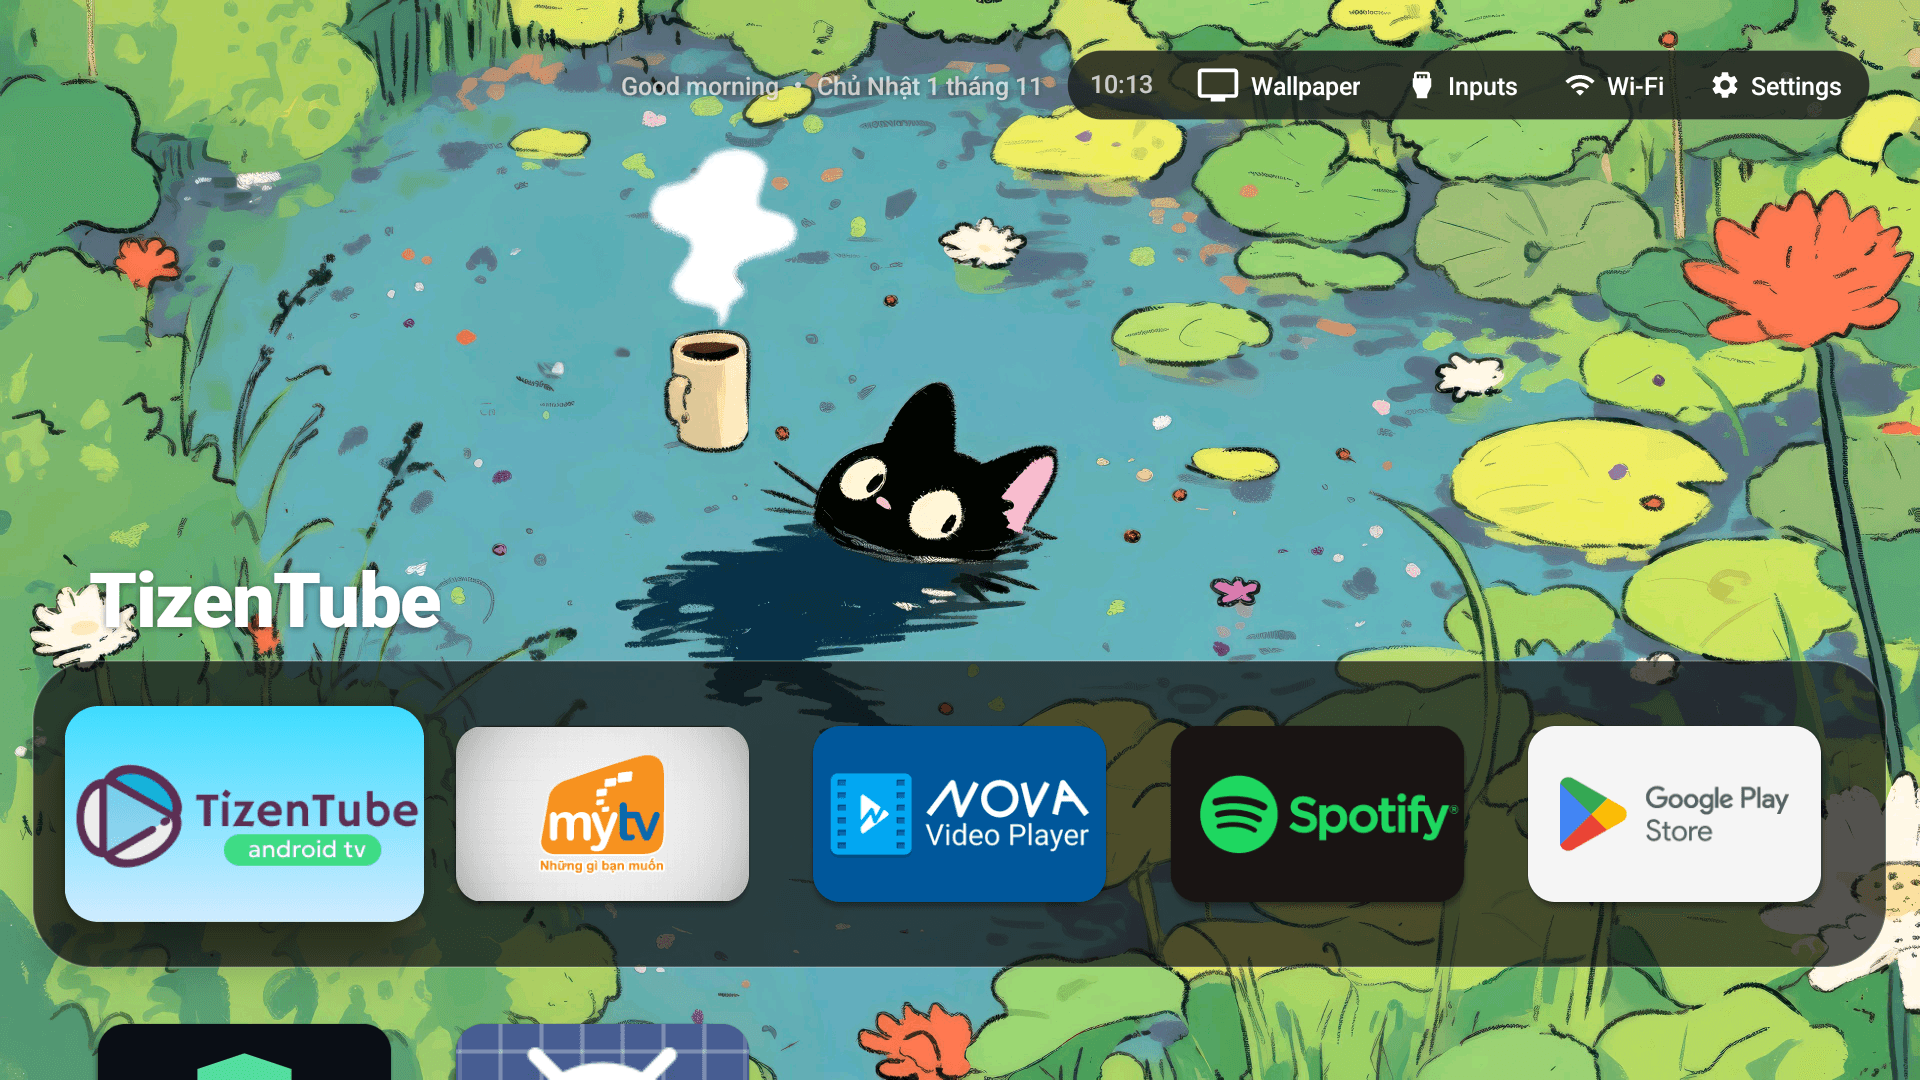
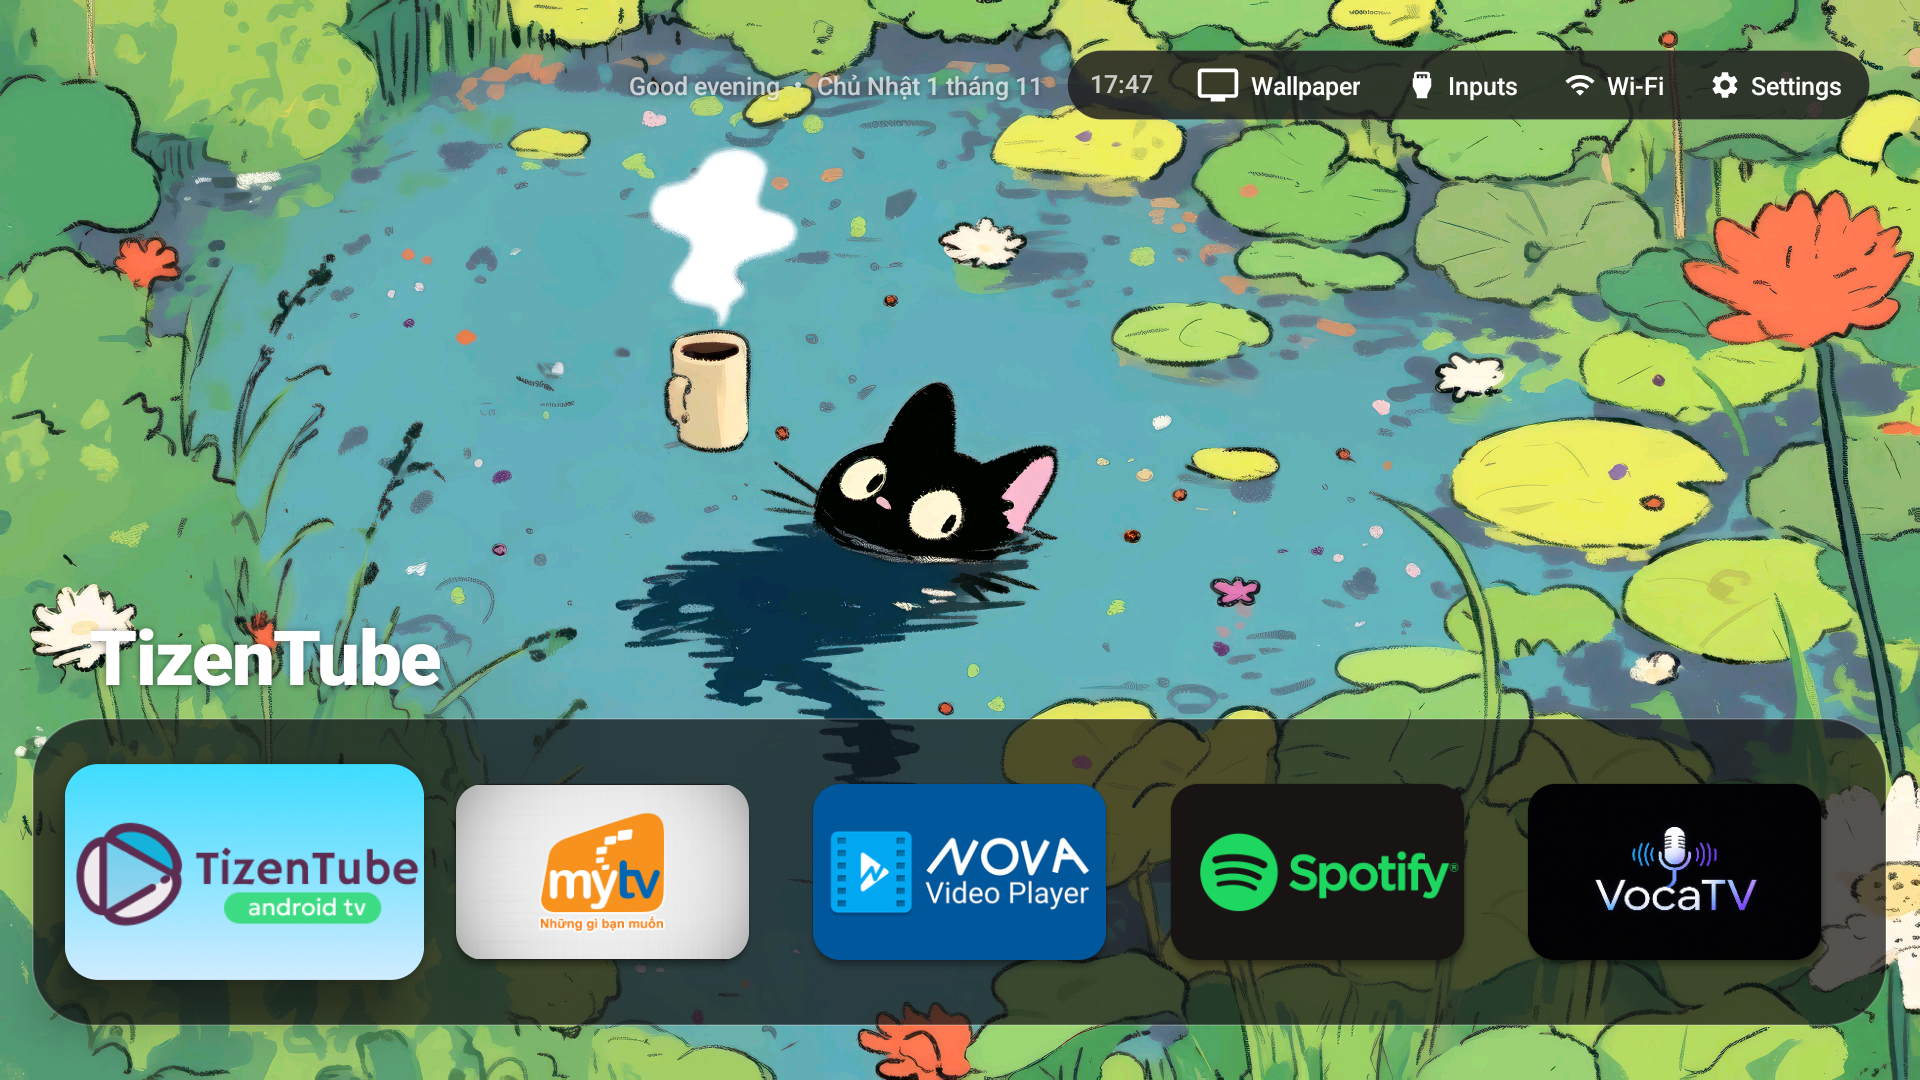
fix(recents): eliminate fake installed-apps fallback and add authentic empty state
- Remove fallback in loadApps() that populated installed launcher apps when recents was empty
- Add tvOS-style Empty State view with clear title, description, and permission guidance
- Disable Clear All button and hide bottom action buttons when recents list is empty
- Open ACTION_USAGE_ACCESS_SETTINGS directly when Settings is clicked without permission
- Re-capture fresh real-TV homepage screenshot at docs/Homescreen.png
- Update README.md and docs/REMOTE_MAPPING.md documentation

Changed region(s): [[0.0, 0.5194, 1.0, 1.0], [0.3125, 0.0611, 0.4062, 0.0917], [0.5625, 0.0611, 0.5938, 0.0917]]

diff --git a/app/src/main/java/com/appletv/launcher/RecentAppsActivity.java b/app/src/main/java/com/appletv/launcher/RecentAppsActivity.java
@@ -66,8 +66,8 @@ public class RecentAppsActivity extends Activity {
     private int selected = 0;
     private int glowColor = GLOW_DEFAULT;
 
-    private View glowBg;
-    private TextView txtSubtitle, btnClearAll, btnSettings, btnOpen, btnClose, btnInfo;
+    private View glowBg, emptyState, actionsRow;
+    private TextView txtSubtitle, btnClearAll, btnSettings, btnOpen, btnClose, btnInfo, emptyTitle, emptyDesc;
     private LinearLayout cardRow;
     private HorizontalScrollView scroller;
     private ActivityManager am;
@@ -101,6 +101,10 @@ public class RecentAppsActivity extends Activity {
         btnInfo = findViewById(R.id.btnInfo);
         cardRow = findViewById(R.id.cardRow);
         scroller = findViewById(R.id.scroller);
+        emptyState = findViewById(R.id.emptyState);
+        emptyTitle = findViewById(R.id.emptyTitle);
+        emptyDesc = findViewById(R.id.emptyDesc);
+        actionsRow = findViewById(R.id.actionsRow);
 
         styleStatic();
         wireButtons();
@@ -228,51 +232,27 @@ public class RecentAppsActivity extends Activity {
             UsageStatsManager usm = (UsageStatsManager) getSystemService(USAGE_STATS_SERVICE);
             long now = System.currentTimeMillis();
             Map<String, UsageStats> stats = usm.queryAndAggregateUsageStats(now - DateUtils.DAY_IN_MILLIS, now);
-            for (UsageStats s : stats.values()) {
-                String pkg = s.getPackageName();
-                if (skip.contains(pkg) || s.getLastTimeUsed() <= 0 || s.getTotalTimeInForeground() <= 0) continue;
-                if (s.getLastTimeUsed() <= prefs.getLong(pkg, 0)) continue;
-                if (launchIntent(pkg) == null) continue;
-                try {
-                    ApplicationInfo ai = pm.getApplicationInfo(pkg, 0);
-                    RecentApp a = new RecentApp();
-                    a.pkg = pkg;
-                    a.label = pm.getApplicationLabel(ai).toString();
-                    Drawable banner = pm.getApplicationBanner(ai);
-                    a.isBanner = banner != null;
-                    a.image = banner != null ? banner : pm.getApplicationIcon(ai);
-                    a.lastUsed = s.getLastTimeUsed();
-                    a.fgTime = s.getTotalTimeInForeground();
-                    a.color = dominantColor(pm.getApplicationIcon(ai));
-                    apps.add(a);
-                } catch (PackageManager.NameNotFoundException ignored) { }
-            }
-            apps.sort((x, y) -> Long.compare(y.lastUsed, x.lastUsed));
-        }
-        if (apps.isEmpty()) {
-            Intent main = new Intent(Intent.ACTION_MAIN, null);
-            main.addCategory(Intent.CATEGORY_LEANBACK_LAUNCHER);
-            List<ResolveInfo> list = pm.queryIntentActivities(main, 0);
-            if (list == null || list.isEmpty()) {
-                main.removeCategory(Intent.CATEGORY_LEANBACK_LAUNCHER);
-                main.addCategory(Intent.CATEGORY_LAUNCHER);
-                list = pm.queryIntentActivities(main, 0);
-            }
-            if (list != null) {
-                for (ResolveInfo ri : list) {
-                    String pkg = ri.activityInfo.packageName;
-                    if (skip.contains(pkg) || pkg.equals(getPackageName())) continue;
+            if (stats != null) {
+                for (UsageStats s : stats.values()) {
+                    String pkg = s.getPackageName();
+                    if (skip.contains(pkg) || s.getLastTimeUsed() <= 0 || s.getTotalTimeInForeground() <= 0) continue;
+                    if (s.getLastTimeUsed() <= prefs.getLong(pkg, 0)) continue;
                     if (launchIntent(pkg) == null) continue;
-                    RecentApp a = new RecentApp();
-                    a.pkg = pkg;
-                    a.label = ri.loadLabel(pm).toString();
-                    Drawable banner = ri.activityInfo.loadBanner(pm);
-                    a.isBanner = banner != null;
-                    a.image = banner != null ? banner : ri.loadIcon(pm);
-                    a.color = dominantColor(ri.loadIcon(pm));
-                    apps.add(a);
-                    if (apps.size() >= MAX_APPS) break;
+                    try {
+                        ApplicationInfo ai = pm.getApplicationInfo(pkg, 0);
+                        RecentApp a = new RecentApp();
+                        a.pkg = pkg;
+                        a.label = pm.getApplicationLabel(ai).toString();
+                        Drawable banner = pm.getApplicationBanner(ai);
+                        a.isBanner = banner != null;
+                        a.image = banner != null ? banner : pm.getApplicationIcon(ai);
+                        a.lastUsed = s.getLastTimeUsed();
+                        a.fgTime = s.getTotalTimeInForeground();
+                        a.color = dominantColor(pm.getApplicationIcon(ai));
+                        apps.add(a);
+                    } catch (PackageManager.NameNotFoundException ignored) { }
                 }
+                apps.sort((x, y) -> Long.compare(y.lastUsed, x.lastUsed));
             }
         }
         while (apps.size() > MAX_APPS) apps.remove(apps.size() - 1);
@@ -283,7 +263,36 @@ public class RecentAppsActivity extends Activity {
         ActivityManager.MemoryInfo mi = new ActivityManager.MemoryInfo();
         am.getMemoryInfo(mi);
         double gb = mi.availMem / (1024.0 * 1024 * 1024);
-        txtSubtitle.setText(String.format(Locale.US, "%d apps open  ·  %.1f GB memory free", apps.size(), gb));
+        if (!hasUsageAccess()) {
+            txtSubtitle.setText(String.format(Locale.US, "Usage access not granted  ·  %.1f GB memory free", gb));
+        } else if (apps.isEmpty()) {
+            txtSubtitle.setText(String.format(Locale.US, "No apps open  ·  %.1f GB memory free", gb));
+        } else {
+            txtSubtitle.setText(String.format(Locale.US, "%d apps open  ·  %.1f GB memory free", apps.size(), gb));
+        }
+    }
+
+    private void updateViewState() {
+        boolean empty = apps.isEmpty();
+        if (scroller != null) scroller.setVisibility(empty ? View.GONE : View.VISIBLE);
+        if (emptyState != null) emptyState.setVisibility(empty ? View.VISIBLE : View.GONE);
+        if (actionsRow != null) actionsRow.setVisibility(empty ? View.GONE : View.VISIBLE);
+
+        if (btnClearAll != null) {
+            btnClearAll.setEnabled(!empty);
+            btnClearAll.setFocusable(!empty);
+            btnClearAll.setAlpha(empty ? 0.35f : 1.0f);
+        }
+
+        if (empty) {
+            if (!hasUsageAccess()) {
+                if (emptyTitle != null) emptyTitle.setText(R.string.recents_permission_title);
+                if (emptyDesc != null) emptyDesc.setText(R.string.recents_permission_desc);
+            } else {
+                if (emptyTitle != null) emptyTitle.setText(R.string.recents_empty_title);
+                if (emptyDesc != null) emptyDesc.setText(R.string.recents_empty_desc);
+            }
+        }
     }
 
     /** Most saturated colour of the icon, boosted so the glow looks like the design. */
@@ -330,12 +339,14 @@ public class RecentAppsActivity extends Activity {
             cardViews.add(item);
         }
         selected = 0;
+        updateViewState();
         if (!cardViews.isEmpty()) {
             for (int i = 0; i < cardViews.size(); i++) setCardSize(cardViews.get(i), i == 0, false);
             cardViews.get(0).findViewById(R.id.cardHolder).requestFocus();
             animateGlowTo(apps.get(0).color);
         } else {
-            btnClearAll.requestFocus();
+            animateGlowTo(GLOW_DEFAULT);
+            btnSettings.requestFocus();
         }
     }
 
@@ -470,7 +481,7 @@ public class RecentAppsActivity extends Activity {
             startActivity(new Intent(Settings.ACTION_APPLICATION_DETAILS_SETTINGS, Uri.parse("package:" + a.pkg)));
         });
         btnClearAll.setOnClickListener(v -> clearAll());
-        btnSettings.setOnClickListener(v -> startActivity(new Intent(Settings.ACTION_SETTINGS)));
+        btnSettings.setOnClickListener(v -> openSettings());
 
         View.OnKeyListener backToCards = (v, keyCode, e) -> {
             if (e.getAction() == KeyEvent.ACTION_DOWN && keyCode == KeyEvent.KEYCODE_DPAD_UP && !cardViews.isEmpty()) {
@@ -498,6 +509,22 @@ public class RecentAppsActivity extends Activity {
         return (selected >= 0 && selected < apps.size()) ? apps.get(selected) : null;
     }
 
+    private void openSettings() {
+        if (!hasUsageAccess()) {
+            try {
+                Intent intent = new Intent(Settings.ACTION_USAGE_ACCESS_SETTINGS);
+                intent.addFlags(Intent.FLAG_ACTIVITY_NEW_TASK);
+                startActivity(intent);
+                return;
+            } catch (Exception ignored) { }
+        }
+        try {
+            Intent intent = new Intent(Settings.ACTION_SETTINGS);
+            intent.addFlags(Intent.FLAG_ACTIVITY_NEW_TASK);
+            startActivity(intent);
+        } catch (Exception ignored) { }
+    }
+
     private void openApp(RecentApp a) {
         Intent i = launchIntent(a.pkg);
         if (i == null) return;
@@ -518,7 +545,12 @@ public class RecentAppsActivity extends Activity {
             cardViews.remove(idx);
             apps.remove(idx);
             updateSubtitle();
-            if (cardViews.isEmpty()) { animateGlowTo(GLOW_DEFAULT); btnClearAll.requestFocus(); return; }
+            if (cardViews.isEmpty()) {
+                updateViewState();
+                animateGlowTo(GLOW_DEFAULT);
+                btnSettings.requestFocus();
+                return;
+            }
             selected = Math.min(idx, cardViews.size() - 1);
             setCardSize(cardViews.get(selected), true, true);
             cardViews.get(selected).findViewById(R.id.cardHolder).requestFocus();
@@ -526,6 +558,7 @@ public class RecentAppsActivity extends Activity {
     }
 
     private void clearAll() {
+        if (apps.isEmpty()) return;
         SharedPreferences.Editor ed = prefs.edit();
         long now = System.currentTimeMillis();
         for (RecentApp a : apps) {
@@ -537,7 +570,9 @@ public class RecentAppsActivity extends Activity {
         cardViews.clear();
         cardRow.removeAllViews();
         updateSubtitle();
+        updateViewState();
         animateGlowTo(GLOW_DEFAULT);
+        btnSettings.requestFocus();
     }
 
     @Override

diff --git a/README.md b/README.md
@@ -23,7 +23,7 @@ An ultra-lightweight, bloat-free Android TV launcher featuring a native **Apple 
 
 - 🍎 **tvOS 18-Inspired Interface:** Minimalist pitch-black home screen, borderless symmetrical icon focus scaling, uniform dock platter padding & gap geometry matching Apple tvOS specifications.
 - 🖼 **Native 4K UHD Wallpaper Engine:** Visual wallpaper grid picker with LruCache memory protection, remote 1-click wallpaper cycling with 400ms crossfade, top-left frosted glass banner indicator, and `ambient_glow` toggle for pure uncorrupted wallpaper colors.
-- 🔄 **Apple TV Recent Apps Switcher:** Smooth horizontal carousel of running apps with live task switching and quick task controls via `RecentAppsActivity`.
+- 🔄 **Apple TV Recent Apps Switcher:** Smooth horizontal carousel of recently used apps with live task switching, authentic usage stats tracking, tvOS empty state, and quick task controls via `RecentAppsActivity`.
 - ⚡ **Zero Volume Lag (Hardware Preservation):** Unlike accessibility-based remappers that break Android's `InputDispatcher` repeat timer, our launcher preserves 100% hardware-speed volume hold acceleration.
 - 🎮 **Dynamic Remote Button Mapping & Gestures:** Fully configurable key bindings via `config.json` for wallpaper switching, Quick Settings, TV inputs, and double-press Home gesture.
 - 🛠 **Automated 4K Wallpaper Pipeline (`sync_wallpaper.sh`):** Center-crop, MozJPEG q=92 normalization, FUSE-safe 2-stage staging push, and MD5 integrity verification.

diff --git a/docs/REMOTE_MAPPING.md b/docs/REMOTE_MAPPING.md
@@ -58,7 +58,7 @@ Sau đó bạn chỉ cần thêm mã số đó vào phần `remote_keys` trong f
 
 ### 1. Nhấn đúp phím Home (Double-Press Home ➔ Recent Apps Switcher):
 - Nhấn phím **Home** 2 lần liên tiếp (trong khoảng 1200ms) từ bất cứ màn hình nào để gọi ngay **Recent Apps Switcher** mang phong cách tvOS.
-- Cho phép xem nhanh danh sách các ứng dụng vừa mở, chuyển đổi tức thì hoặc đóng ứng dụng chạy ngầm.
+- Cho phép xem nhanh danh sách các ứng dụng vừa mở (dựa trên UsageStats thực tế), chuyển đổi tức thì hoặc đóng ứng dụng ngầm. Hỗ trợ hiển thị Empty State tvOS khi đã đóng hết ứng dụng hoặc khi chưa cấp quyền.
 
 <p align="center">
   <img src="RecentTab.png" alt="Recent Apps Switcher" width="750">
